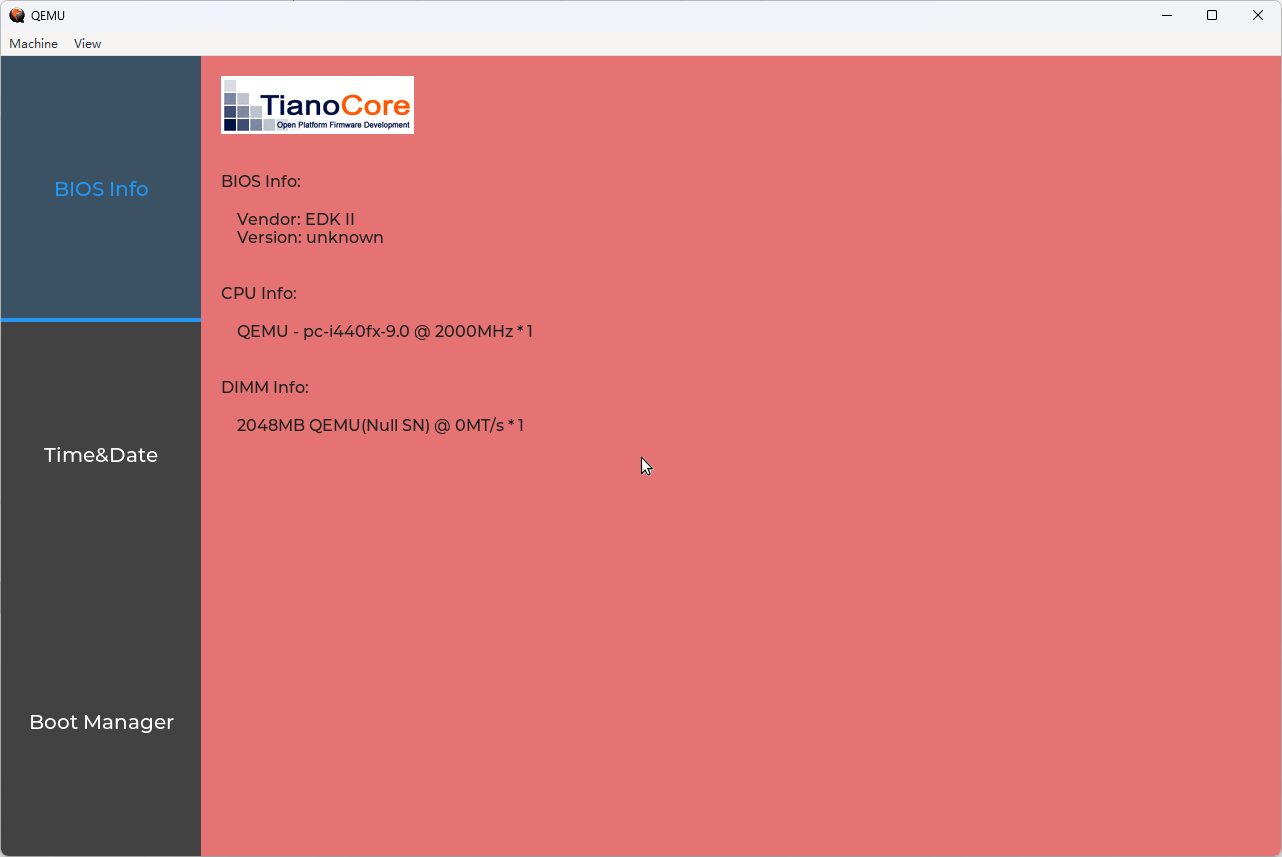
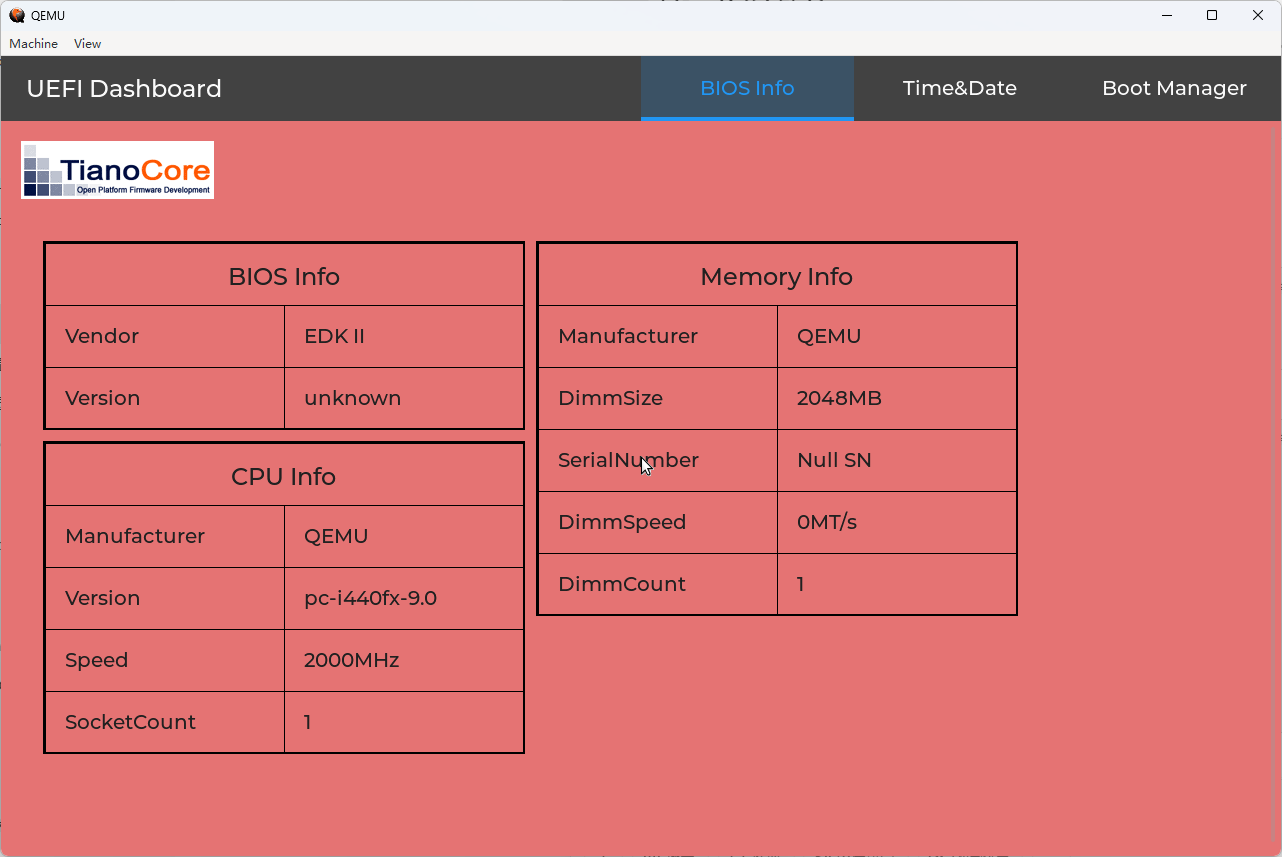
Update UefiDashboard style

diff --git a/Application/UefiDashboard/UefiBasicInfo.c b/Application/UefiDashboard/UefiBasicInfo.c
@@ -7,6 +7,13 @@
 **/
 
 #include "UefiDashboardCommon.h"
+#include "src/core/lv_obj.h"
+#include "src/core/lv_obj_pos.h"
+#include "src/misc/lv_area.h"
+#include "src/misc/lv_color.h"
+#include "src/misc/lv_style.h"
+#include "src/misc/lv_text.h"
+#include "src/widgets/table/lv_table.h"
 
 
 LV_ATTRIBUTE_MEM_ALIGN UINT8 *mLogoData = NULL;
@@ -146,6 +153,39 @@ LibGetSmbiosString (
 }
 
 
+static void basic_info_draw_event_cb(lv_event_t * e)
+{
+    lv_draw_task_t * draw_task = lv_event_get_draw_task(e);
+    lv_draw_dsc_base_t * base_dsc = (lv_draw_dsc_base_t *)lv_draw_task_get_draw_dsc(draw_task);
+    /*If the cells are drawn...*/
+    if(base_dsc->part == LV_PART_ITEMS) {
+        uint32_t row = base_dsc->id1;
+        uint32_t col = base_dsc->id2;
+
+        /*Make the texts in the first cell center aligned*/
+        if(row == 0) {
+            lv_draw_label_dsc_t * label_draw_dsc = lv_draw_task_get_label_dsc(draw_task);
+            if(label_draw_dsc) {
+                label_draw_dsc->align = LV_TEXT_ALIGN_CENTER;
+                label_draw_dsc->font = &lv_font_montserrat_24;
+            }
+        }
+        /*In the first column align the texts to the right*/
+        else if(col == 0) {
+            lv_draw_label_dsc_t * label_draw_dsc = lv_draw_task_get_label_dsc(draw_task);
+            if(label_draw_dsc) {
+                label_draw_dsc->align = LV_TEXT_ALIGN_LEFT;
+            }
+        }
+
+        lv_draw_fill_dsc_t * fill_draw_dsc = lv_draw_task_get_fill_dsc(draw_task);
+        if(fill_draw_dsc) {
+            fill_draw_dsc->opa = LV_OPA_TRANSP;
+        }
+    }
+}
+
+
 VOID
 UefiBiosInfo (
   lv_obj_t                  *parent,
@@ -158,13 +198,6 @@ UefiBiosInfo (
   EFI_SMBIOS_TABLE_HEADER   *SmbiosHdr;
   SMBIOS_STRUCTURE_POINTER  SmbiosStructureP;
   CHAR8                     *BiosVendor, *BiosVersion;
-  CHAR8                     BiosInfoStr[256+1];
-  int32_t                   obj_w;
-
-  lv_obj_t * BiosInfoLabelT = lv_label_create(parent);
-  lv_label_set_text(BiosInfoLabelT, "\nBIOS Info:");
-  lv_obj_set_style_text_font(BiosInfoLabelT, &lv_font_montserrat_16, 0);
-  lv_obj_set_style_text_align(BiosInfoLabelT, LV_TEXT_ALIGN_LEFT, 0);
 
   SmbiosHandle = SMBIOS_HANDLE_PI_RESERVED;
   SmbiosType = EFI_SMBIOS_TYPE_BIOS_INFORMATION;
@@ -174,15 +207,37 @@ UefiBiosInfo (
   BiosVendor = LibGetSmbiosString(&SmbiosStructureP, SmbiosStructureP.Type0->Vendor);
   BiosVersion = LibGetSmbiosString(&SmbiosStructureP, SmbiosStructureP.Type0->BiosVersion);
 
-  AsciiSPrint(BiosInfoStr, sizeof (BiosInfoStr), "    Vendor: %a\n    Version: %a", BiosVendor, BiosVersion);
-  lv_obj_t * BiosInfoLabel = lv_label_create(parent);
-  lv_label_set_text(BiosInfoLabel, BiosInfoStr);
-  lv_obj_set_style_text_font(BiosInfoLabel, &lv_font_montserrat_16, 0);
-  lv_obj_set_style_text_align(BiosInfoLabel, LV_TEXT_ALIGN_LEFT, 0);
+  lv_obj_t * table = lv_table_create(parent);
+  lv_obj_set_width(table, lv_pct(45));
+  lv_obj_set_style_max_height(table, lv_pct(50), 0);
+  lv_obj_add_flag(table, LV_OBJ_FLAG_SEND_DRAW_TASK_EVENTS);
+  lv_obj_add_event_cb(table, basic_info_draw_event_cb, LV_EVENT_DRAW_TASK_ADDED, NULL);
 
-  obj_w = 8 * (int32_t) MAX((AsciiStrSize (BiosVendor) + AsciiStrSize ("    Vendor: ")), (AsciiStrSize (BiosVersion) + AsciiStrSize ("    Version: ")));
-  lv_obj_set_width(BiosInfoLabel, obj_w);
+  lv_obj_set_style_border_width(table, 2, LV_PART_MAIN);
+  lv_obj_set_style_border_color(table, lv_color_black(), LV_PART_MAIN);
+  lv_obj_set_style_border_side(table, LV_BORDER_SIDE_FULL, LV_PART_MAIN);
+
+  lv_obj_set_style_border_width(table, 1, LV_PART_ITEMS);
+  lv_obj_set_style_border_color(table, lv_color_black(), LV_PART_ITEMS);
+  lv_obj_set_style_border_side(table, LV_BORDER_SIDE_FULL, LV_PART_ITEMS);
+
+  lv_obj_set_style_bg_opa(table, LV_OPA_TRANSP, 0);
+
+  lv_obj_update_layout(table);
+  const int32_t col_w = lv_obj_get_content_width(table) / 2;
+
+  lv_table_set_column_width(table, 0, col_w);
+  lv_table_set_column_width(table, 1, col_w);
+
+  lv_table_set_cell_value(table, 0, 0, "BIOS Info");
+  lv_table_set_cell_value(table, 1, 0, "Vendor");
+  lv_table_set_cell_value(table, 2, 0, "Version");
+
+  lv_table_set_cell_value(table, 0, 1, " ");
+  lv_table_set_cell_value(table, 1, 1, BiosVendor);
+  lv_table_set_cell_value(table, 2, 1, BiosVersion);
   
+  lv_table_set_cell_ctrl(table, 0, 0, LV_TABLE_CELL_CTRL_MERGE_RIGHT);
 }
 
 
@@ -200,12 +255,6 @@ UefiCpuInfo (
   UINT8                     SocketCount = 0;
   UINT16                    CpuSpeed = 0;
   CHAR8                     *Manufacturer = NULL, *Version = NULL;
-  CHAR8                     CpuInfoStr[256+1];
-
-  lv_obj_t * CpuInfoLabelT = lv_label_create(parent);
-  lv_label_set_text(CpuInfoLabelT, "\nCPU Info:");
-  lv_obj_set_style_text_font(CpuInfoLabelT, &lv_font_montserrat_16, 0);
-  lv_obj_set_style_text_align(CpuInfoLabelT, LV_TEXT_ALIGN_LEFT, 0);
 
   SmbiosHandle = SMBIOS_HANDLE_PI_RESERVED;
   SmbiosType = EFI_SMBIOS_TYPE_PROCESSOR_INFORMATION;
@@ -232,11 +281,41 @@ UefiCpuInfo (
     SocketCount++;
   }
 
-  AsciiSPrint(CpuInfoStr, sizeof (CpuInfoStr), "    %a - %a @ %dMHz * %d", Manufacturer, Version, CpuSpeed, SocketCount);
-  lv_obj_t * CpuInfoLabel = lv_label_create(parent);
-  lv_label_set_text(CpuInfoLabel, CpuInfoStr);
-  lv_obj_set_style_text_font(CpuInfoLabel, &lv_font_montserrat_16, 0);
-  lv_obj_set_style_text_align(CpuInfoLabel, LV_TEXT_ALIGN_LEFT, 0);
+  lv_obj_t * table = lv_table_create(parent);
+  lv_obj_set_width(table, lv_pct(45));
+  lv_obj_set_style_max_height(table, lv_pct(60), 0);
+  lv_obj_add_flag(table, LV_OBJ_FLAG_SEND_DRAW_TASK_EVENTS);
+  lv_obj_add_event_cb(table, basic_info_draw_event_cb, LV_EVENT_DRAW_TASK_ADDED, NULL);
+
+  lv_obj_set_style_border_width(table, 2, LV_PART_MAIN);
+  lv_obj_set_style_border_color(table, lv_color_black(), LV_PART_MAIN);
+  lv_obj_set_style_border_side(table, LV_BORDER_SIDE_FULL, LV_PART_MAIN);
+
+  lv_obj_set_style_border_width(table, 1, LV_PART_ITEMS);
+  lv_obj_set_style_border_color(table, lv_color_black(), LV_PART_ITEMS);
+  lv_obj_set_style_border_side(table, LV_BORDER_SIDE_FULL, LV_PART_ITEMS);
+
+  lv_obj_set_style_bg_opa(table, LV_OPA_TRANSP, 0);
+
+  lv_obj_update_layout(table);
+  const int32_t col_w = lv_obj_get_content_width(table) / 2;
+
+  lv_table_set_column_width(table, 0, col_w);
+  lv_table_set_column_width(table, 1, col_w);
+
+  lv_table_set_cell_value(table, 0, 0, "CPU Info");
+  lv_table_set_cell_value(table, 1, 0, "Manufacturer");
+  lv_table_set_cell_value(table, 2, 0, "Version");
+  lv_table_set_cell_value(table, 3, 0, "Speed");
+  lv_table_set_cell_value(table, 4, 0, "SocketCount");
+
+  lv_table_set_cell_value(table, 0, 1, " ");
+  lv_table_set_cell_value(table, 1, 1, Manufacturer);
+  lv_table_set_cell_value(table, 2, 1, Version);
+  lv_table_set_cell_value_fmt(table, 3, 1, "%dMHz", CpuSpeed);
+  lv_table_set_cell_value_fmt(table, 4, 1, "%d", SocketCount);
+  
+  lv_table_set_cell_ctrl(table, 0, 0, LV_TABLE_CELL_CTRL_MERGE_RIGHT);
 }
 
 
@@ -256,13 +335,7 @@ UefiDimmInfo (
   UINT64                    DimmSize = 0;
   UINT32                    ExtendedSize = 0;
   CHAR8                     *Manufacturer = NULL, *SerialNumber = NULL;
-  CHAR8                     DimmInfoStr[256+1];
   CHAR8                     DimmSizeStr[10];
-
-  lv_obj_t * DimmInfoLabelT = lv_label_create(parent);
-  lv_label_set_text(DimmInfoLabelT, "\nDIMM Info:");
-  lv_obj_set_style_text_font(DimmInfoLabelT, &lv_font_montserrat_16, 0);
-  lv_obj_set_style_text_align(DimmInfoLabelT, LV_TEXT_ALIGN_LEFT, 0);
 
   SmbiosHandle = SMBIOS_HANDLE_PI_RESERVED;
   SmbiosType = EFI_SMBIOS_TYPE_MEMORY_DEVICE;
@@ -333,11 +406,43 @@ UefiDimmInfo (
     AsciiSPrint (DimmSizeStr, sizeof (DimmSizeStr), "%dMB ", DimmSize);
   }
 
-  AsciiSPrint(DimmInfoStr, sizeof (DimmInfoStr), "    %a%a(%a) @ %dMT/s * %d", DimmSizeStr, Manufacturer, SerialNumber != NULL ? SerialNumber : "Null SN", DimmSpeed, DimmCount);
-  lv_obj_t * DimmInfoLabel = lv_label_create(parent);
-  lv_label_set_text(DimmInfoLabel, DimmInfoStr);
-  lv_obj_set_style_text_font(DimmInfoLabel, &lv_font_montserrat_16, 0);
-  lv_obj_set_style_text_align(DimmInfoLabel, LV_TEXT_ALIGN_LEFT, 0);
+  lv_obj_t * table = lv_table_create(parent);
+  lv_obj_set_width(table, lv_pct(45));
+  lv_obj_set_style_max_height(table, lv_pct(70), 0);
+  lv_obj_add_flag(table, LV_OBJ_FLAG_SEND_DRAW_TASK_EVENTS);
+  lv_obj_add_event_cb(table, basic_info_draw_event_cb, LV_EVENT_DRAW_TASK_ADDED, NULL);
+
+  lv_obj_set_style_border_width(table, 2, LV_PART_MAIN);
+  lv_obj_set_style_border_color(table, lv_color_black(), LV_PART_MAIN);
+  lv_obj_set_style_border_side(table, LV_BORDER_SIDE_FULL, LV_PART_MAIN);
+
+  lv_obj_set_style_border_width(table, 1, LV_PART_ITEMS);
+  lv_obj_set_style_border_color(table, lv_color_black(), LV_PART_ITEMS);
+  lv_obj_set_style_border_side(table, LV_BORDER_SIDE_FULL, LV_PART_ITEMS);
+
+  lv_obj_set_style_bg_opa(table, LV_OPA_TRANSP, 0);
+
+  lv_obj_update_layout(table);
+  const int32_t col_w = lv_obj_get_content_width(table) / 2;
+
+  lv_table_set_column_width(table, 0, col_w);
+  lv_table_set_column_width(table, 1, col_w);
+
+  lv_table_set_cell_value(table, 0, 0, "Memory Info");
+  lv_table_set_cell_value(table, 1, 0, "Manufacturer");
+  lv_table_set_cell_value(table, 2, 0, "DimmSize");
+  lv_table_set_cell_value(table, 3, 0, "SerialNumber");
+  lv_table_set_cell_value(table, 4, 0, "DimmSpeed");
+  lv_table_set_cell_value(table, 5, 0, "DimmCount");
+
+  lv_table_set_cell_value(table, 0, 1, " ");
+  lv_table_set_cell_value(table, 1, 1, Manufacturer);
+  lv_table_set_cell_value(table, 2, 1, DimmSizeStr);
+  lv_table_set_cell_value(table, 3, 1, (SerialNumber != NULL) ? SerialNumber : "Null SN");
+  lv_table_set_cell_value_fmt(table, 4, 1, "%dMT/s", DimmSpeed);
+  lv_table_set_cell_value_fmt(table, 5, 1, "%d", DimmCount);
+  
+  lv_table_set_cell_ctrl(table, 0, 0, LV_TABLE_CELL_CTRL_MERGE_RIGHT);
 }
 
 
@@ -349,11 +454,19 @@ UefiBasicInfo (
   EFI_STATUS                Status;
   EFI_SMBIOS_PROTOCOL       *Smbios;
 
+  UefiLogoInfo (parent);
+
   Status = gBS->LocateProtocol(&gEfiSmbiosProtocolGuid, NULL, (VOID**)&Smbios);
   if (!EFI_ERROR (Status)) {
-    UefiLogoInfo (parent);
-    UefiBiosInfo (parent, Smbios);
-    UefiCpuInfo (parent, Smbios);
-    UefiDimmInfo (parent, Smbios);
+    lv_obj_t * cont_info = lv_obj_create(parent);
+    lv_obj_set_size(cont_info, lv_pct(90), lv_pct(90));
+    lv_obj_align(cont_info, LV_ALIGN_CENTER, 0, 0);
+    lv_obj_set_flex_flow(cont_info, LV_FLEX_FLOW_COLUMN_WRAP);
+    lv_obj_set_style_bg_opa(cont_info, LV_OPA_TRANSP, LV_PART_MAIN);
+    lv_obj_set_style_border_opa(cont_info, LV_OPA_TRANSP, LV_PART_MAIN);
+
+    UefiBiosInfo (cont_info, Smbios);
+    UefiCpuInfo (cont_info, Smbios);
+    UefiDimmInfo (cont_info, Smbios);
   }
 }
